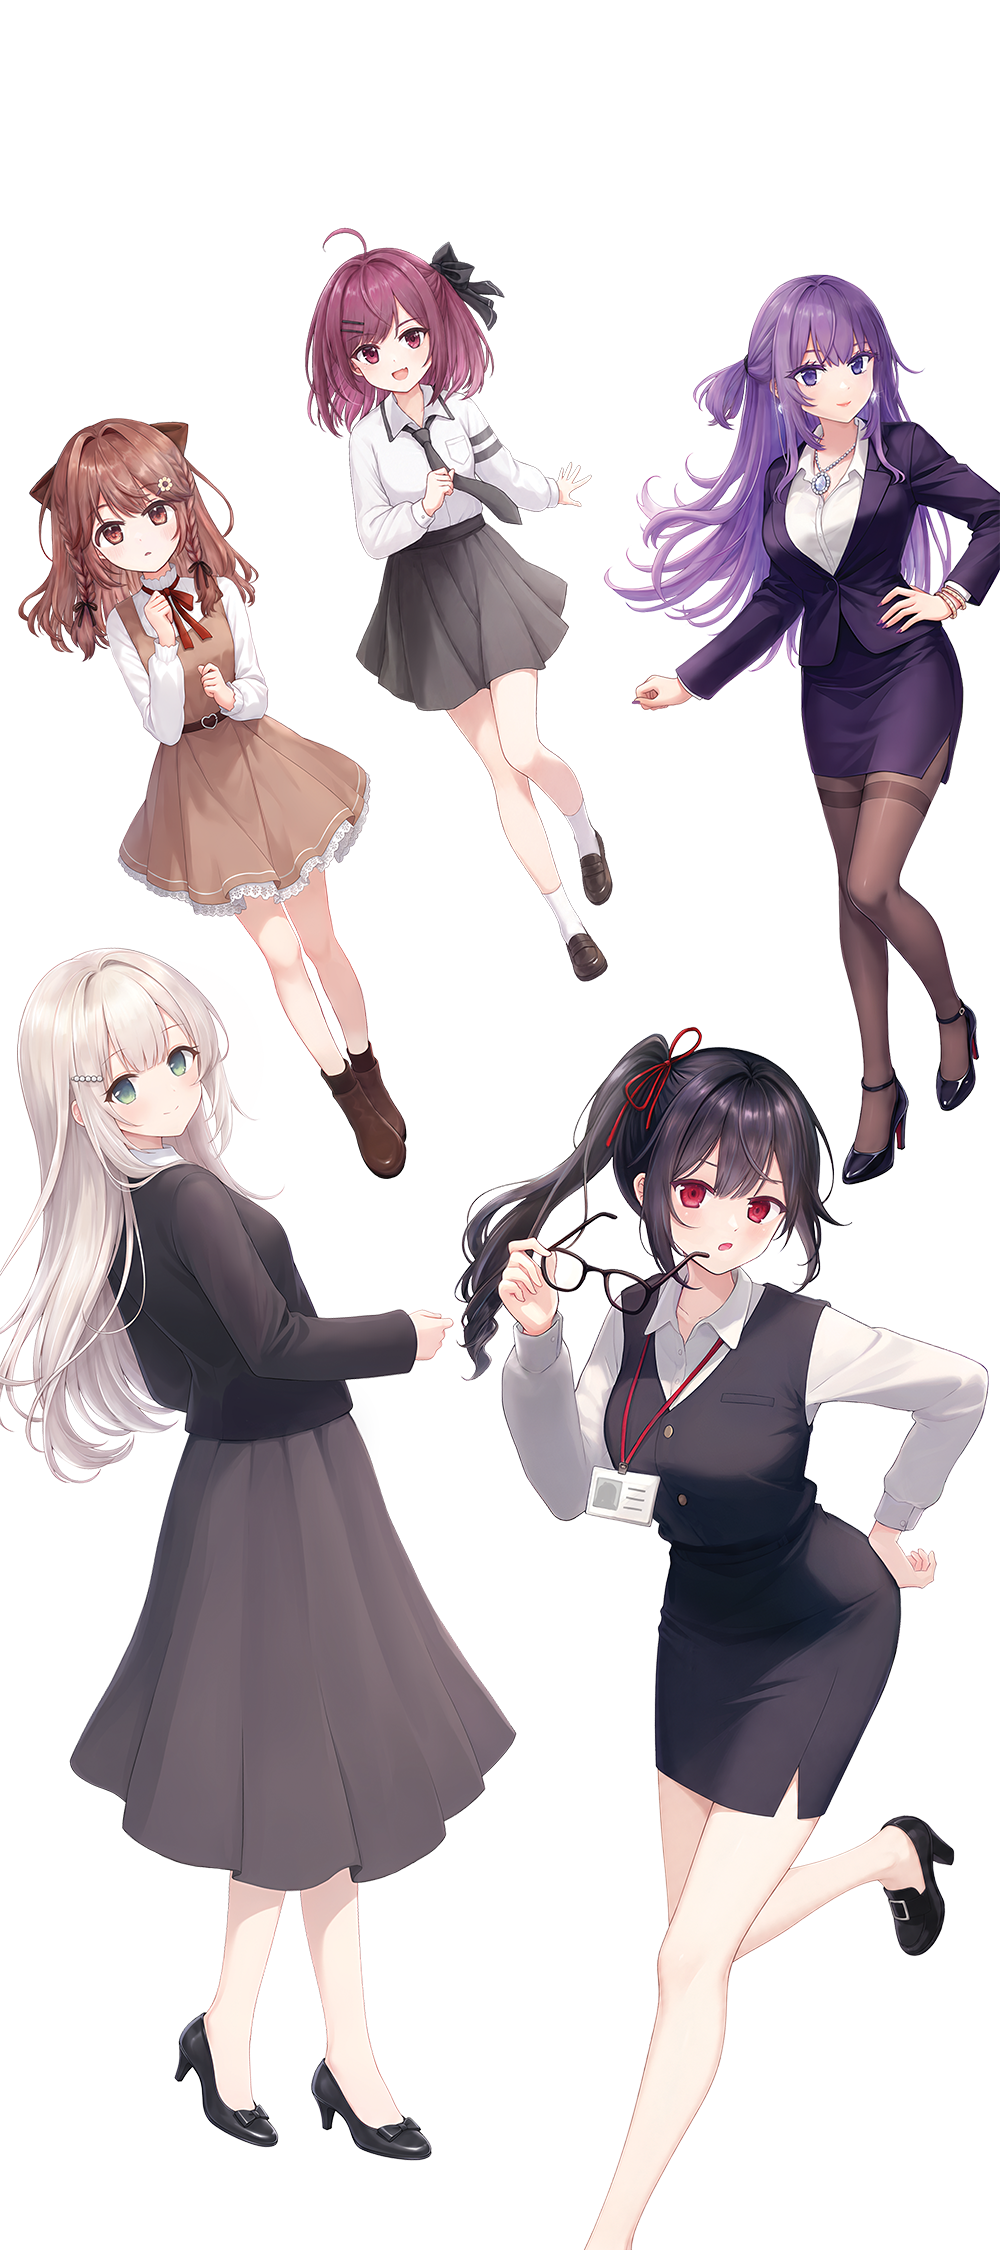
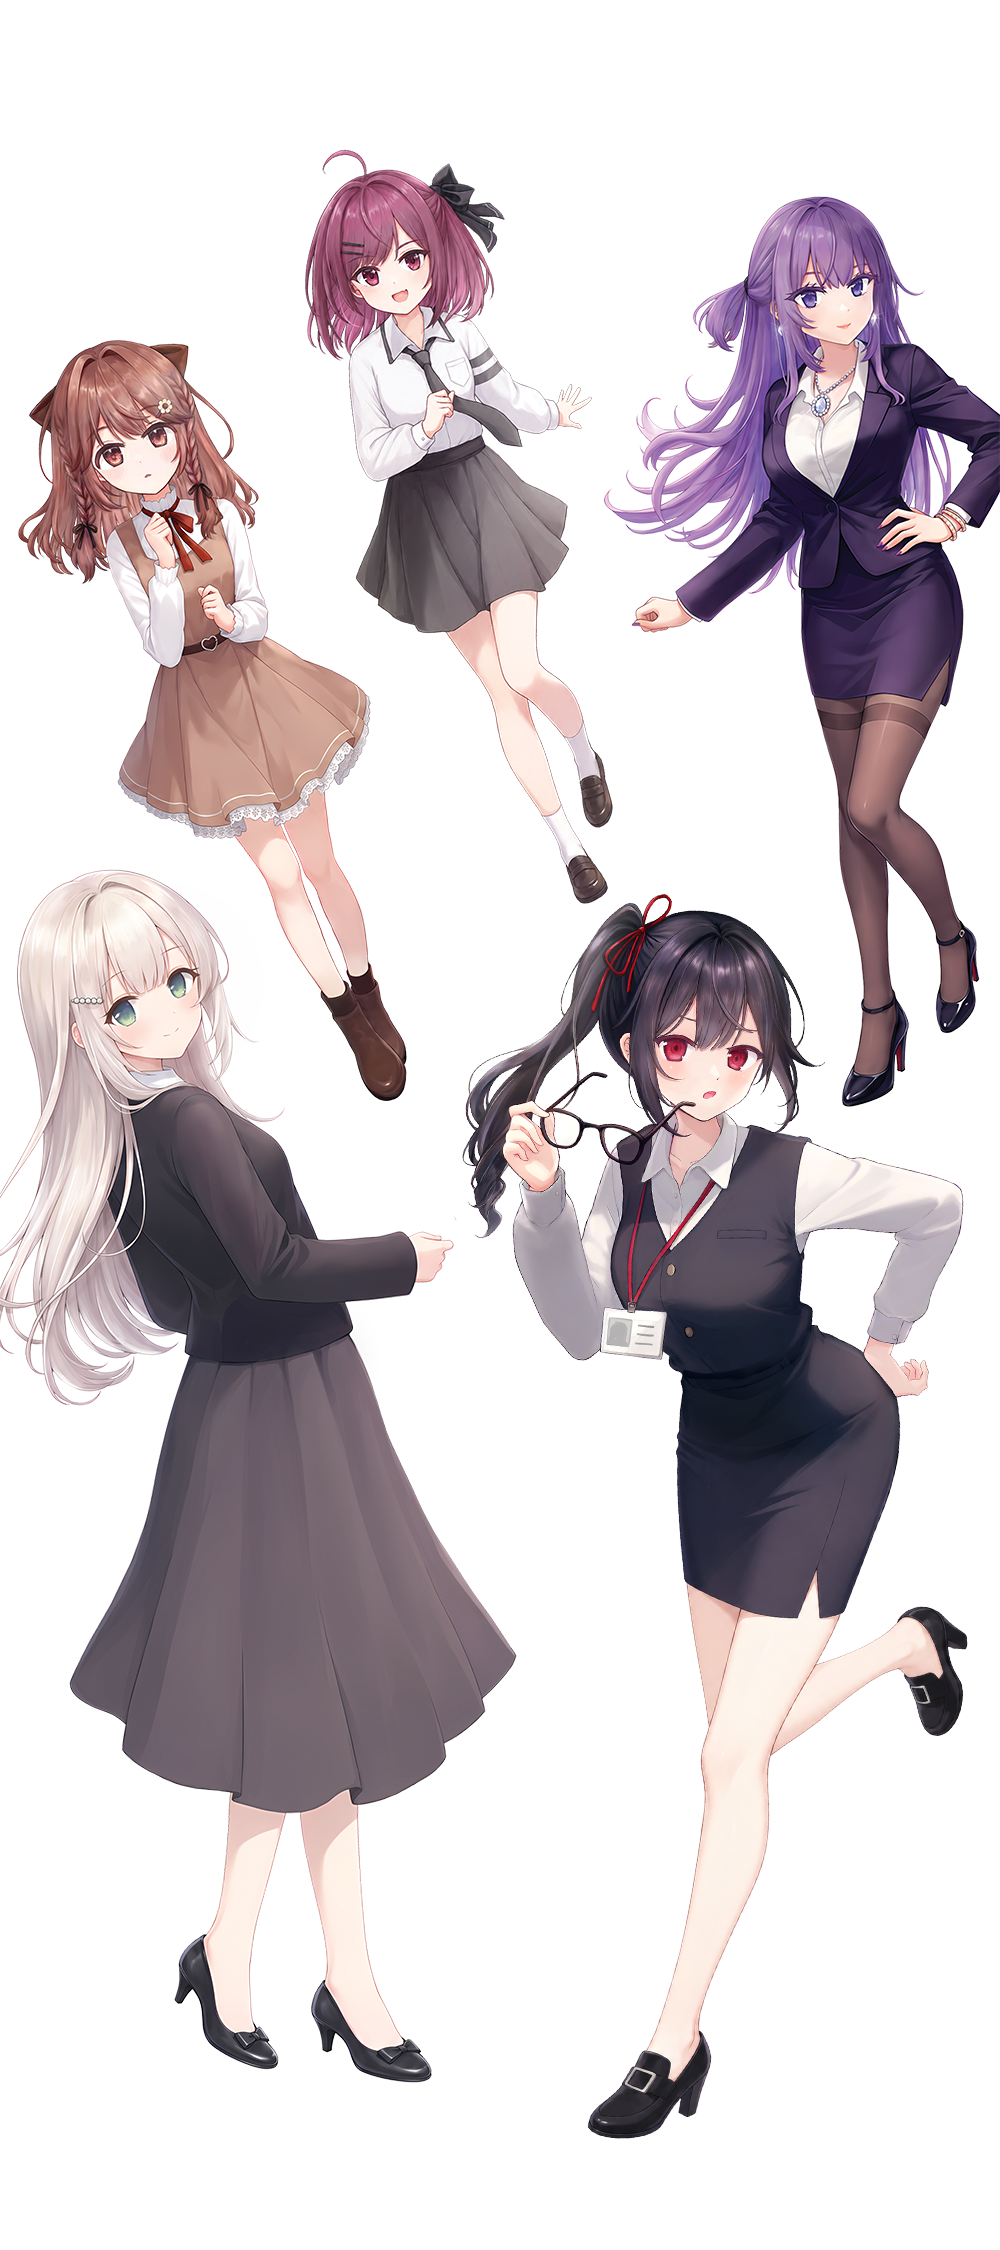
config

diff --git a/starq_soft/src/App.tsx b/starq_soft/src/App.tsx
@@ -43,10 +43,24 @@ const App = () => {
   const { lang } = useLanguage();
   const t = translations[lang as keyof typeof translations];
   const n = news[lang as keyof typeof news] ?? news['ja-jp'];
+  const [isMobile, setIsMobile] = useState(() =>
+    typeof window !== 'undefined' && window.matchMedia('(max-width: 768px)').matches
+  );
 
-  const banners = [`${import.meta.env.BASE_URL}banner4.png`,
+  const banners = [isMobile
+    ? `${import.meta.env.BASE_URL}banner4_mobile.png`
+    : `${import.meta.env.BASE_URL}banner4.png`,
     // `${import.meta.env.BASE_URL}banner2.png`, `${import.meta.env.BASE_URL}banner3.png`
   ];
+
+  useEffect(() => {
+    const mediaQuery = window.matchMedia('(max-width: 768px)');
+    const updateBanner = (event: MediaQueryListEvent) => setIsMobile(event.matches);
+
+    setIsMobile(mediaQuery.matches);
+    mediaQuery.addEventListener('change', updateBanner);
+    return () => mediaQuery.removeEventListener('change', updateBanner);
+  }, []);
 
   // direction drives whether slides enter from the right (1) or left (-1).
   const [[bannerIndex, direction], setBanner] = useState([0, 1]);

diff --git a/starq_soft/src/pages/CharacterGallery.tsx b/starq_soft/src/pages/CharacterGallery.tsx
@@ -350,8 +350,13 @@ const CharacterImage = styled.img`
     max-width: 360px;
   }
 
+  @media (max-width: 768px) {
+    width: 80%;
+    max-width: 288px;
+  }
+
   @media (max-width: 480px) {
-    max-width: 82vw;
+    max-width: 65.6vw;
   }
 `;
 

diff --git a/starq_soft/src/pages/LscStyles.tsx b/starq_soft/src/pages/LscStyles.tsx
@@ -264,9 +264,13 @@ export const CharacterCard = styled.div<{ $isSelected?: boolean }>`
   cursor: pointer;
 
   @media (max-width: 480px) {
-    min-width: 0;
     width: calc((100% - 1.5rem) / 3);
     .avatar { height: 5rem; }
+    width: 60px;
+  }
+
+  @media (max-width: 760px) {
+    width: 80px;
   }
 
   :hover {

diff --git a/starq_soft/src/pages/CherryBlossomBackground.tsx b/starq_soft/src/pages/CherryBlossomBackground.tsx
@@ -70,6 +70,7 @@ const Container = styled.div`
   user-select: none;
   overscroll-behavior: none;
   contain: strict;
+  background: #fff;
 `;
 
 const SakuraPetal = styled.img<PetalConfig>`